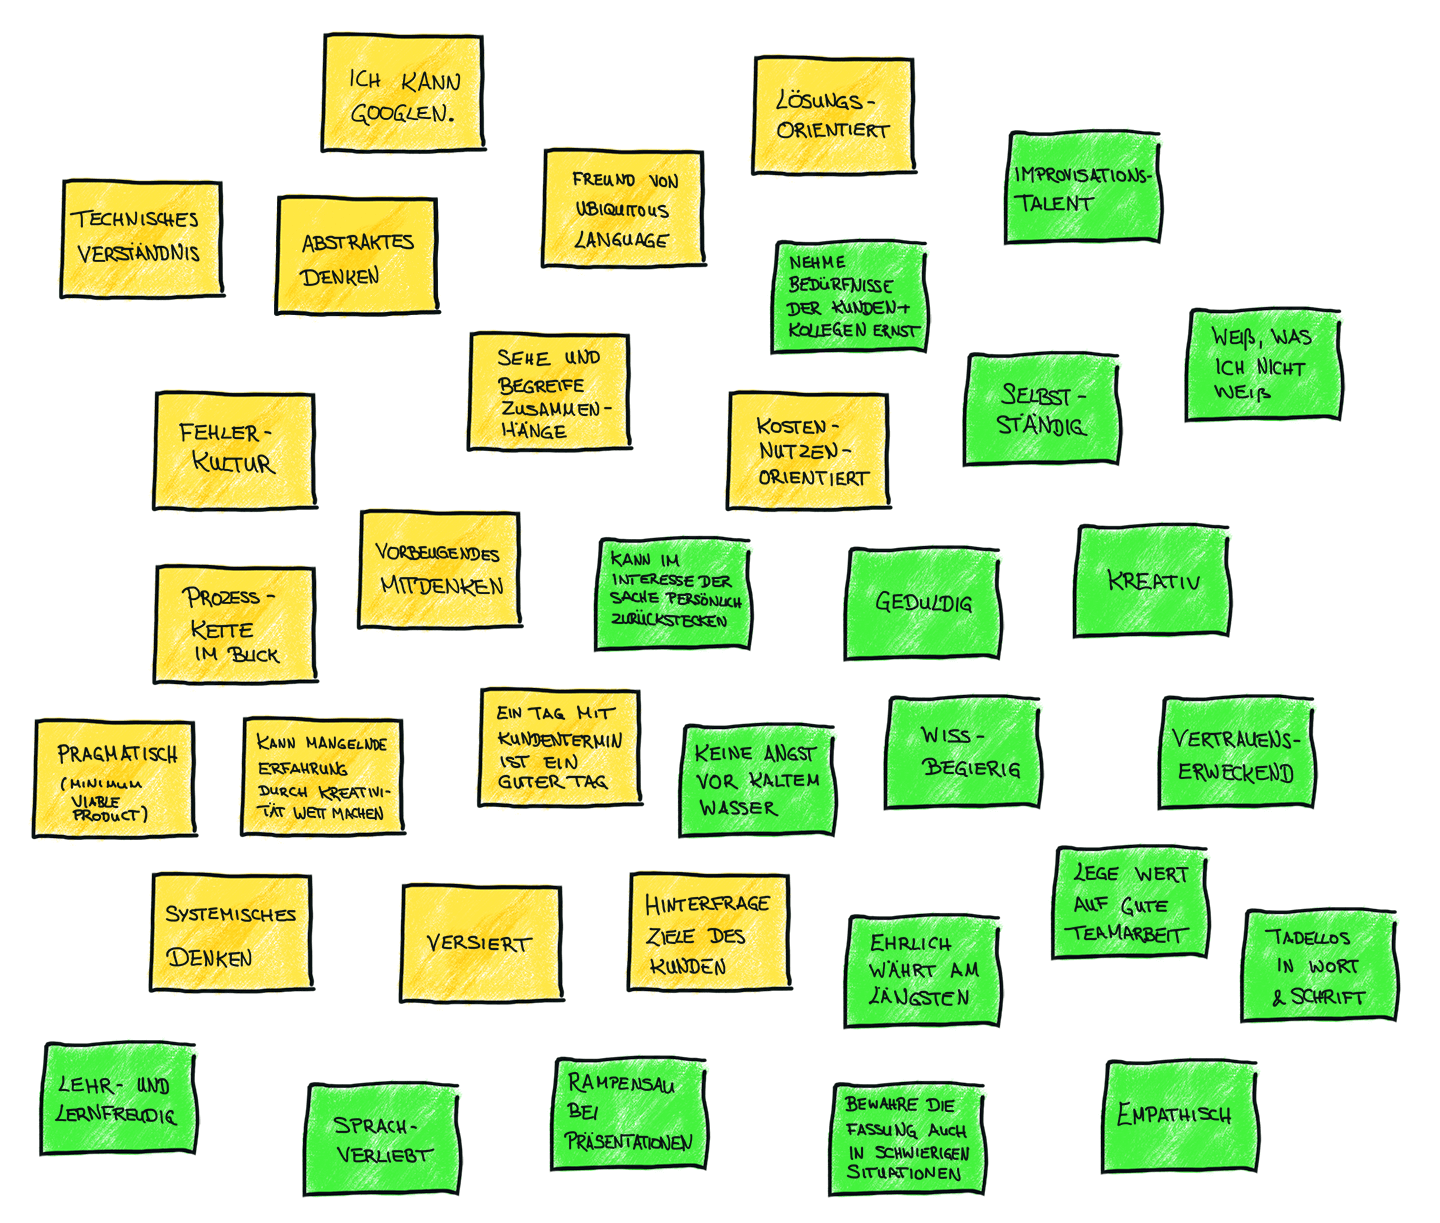
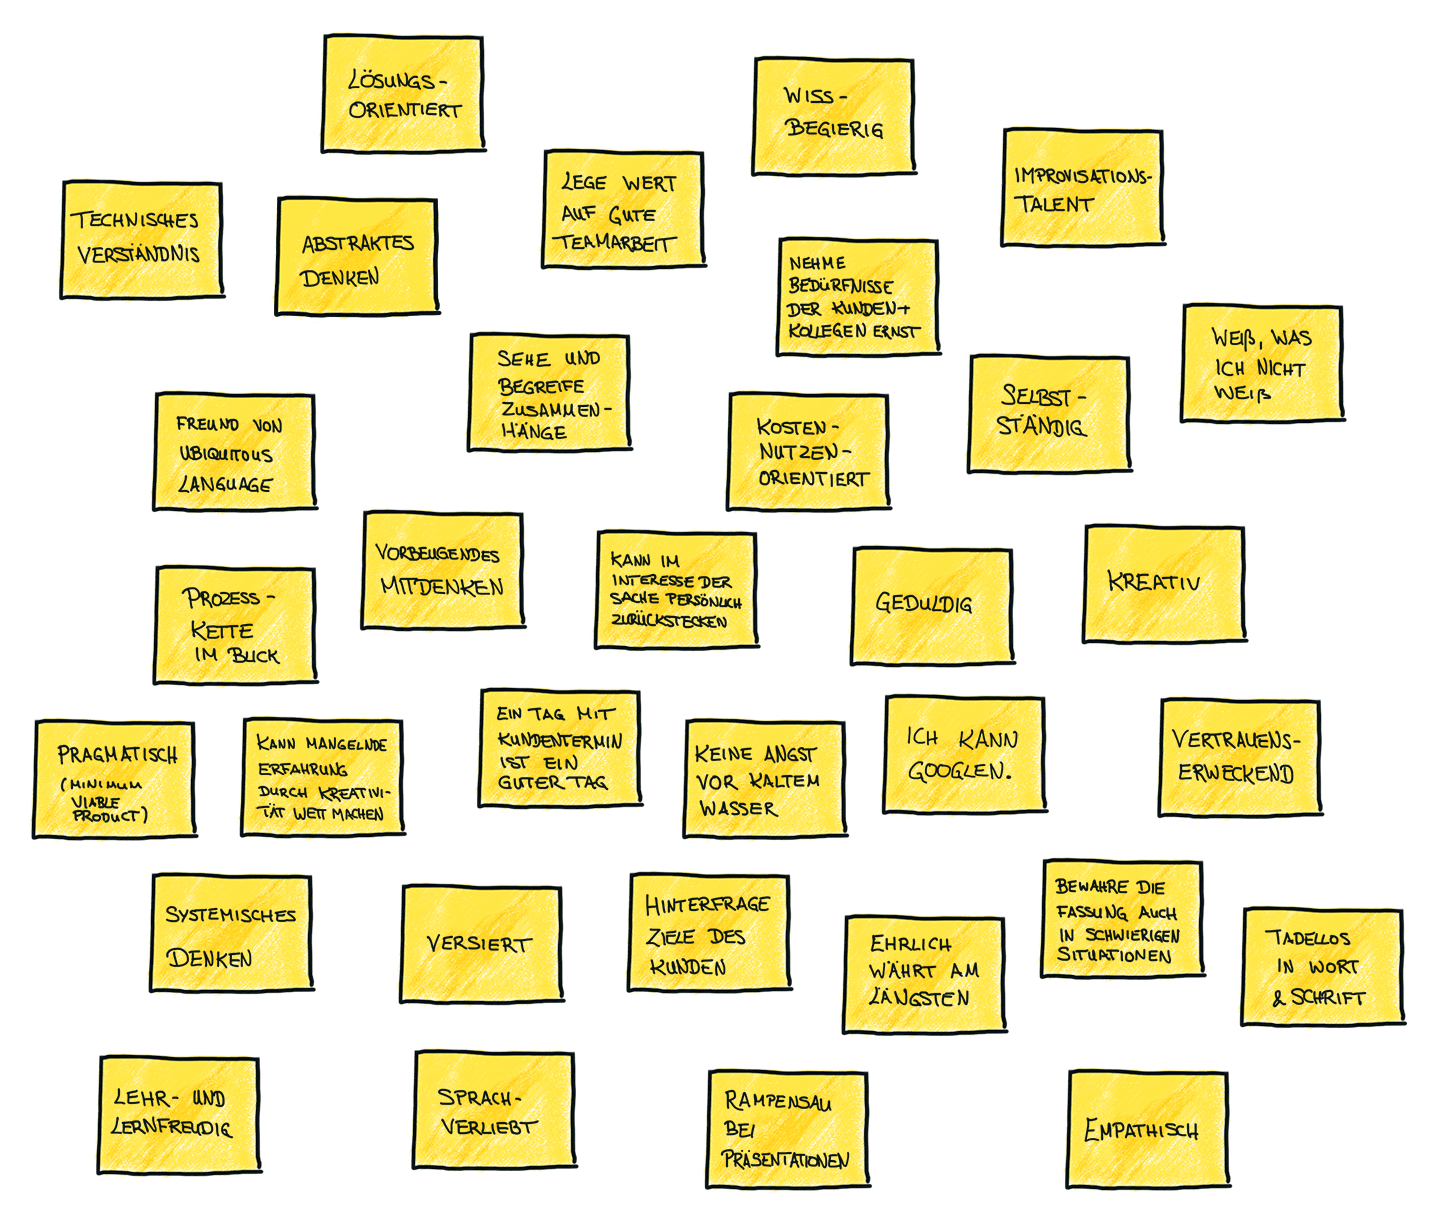
[TASK] Update stickies to better color

diff --git a/docs/index.html b/docs/index.html
@@ -279,11 +279,11 @@
   <p id="tagline">Technisch gesehen sind wir alle ein Konglomerat aus Eigenschaften.</p>
 
   <picture id="stickies">
-    <source media="(max-width: 460px)" srcset="stickies/stickies_small.png?sha=a0f62ccd">
-    <source media="(max-width: 920px)" srcset="stickies/stickies_medium.png?sha=a0f62ccd">
-    <source media="(max-width: 1200px)" srcset="stickies/stickies_large.png?sha=a0f62ccd">
-    <source srcset="stickies/stickies.png?sha=a0f62ccd">
-    <img src="stickies/stickies.png?sha=a0f62ccd" width="1440" height="1224">
+    <source media="(max-width: 460px)" srcset="stickies/stickies_small.png?sha=MEE407B">
+    <source media="(max-width: 920px)" srcset="stickies/stickies_medium.png?sha=MEE407B">
+    <source media="(max-width: 1200px)" srcset="stickies/stickies_large.png?sha=MEE407B">
+    <source srcset="stickies/stickies.png?sha=MEE407B">
+    <img src="stickies/stickies.png?sha=MEE407B" width="1440" height="1224">
   </picture>
 
   <section>
